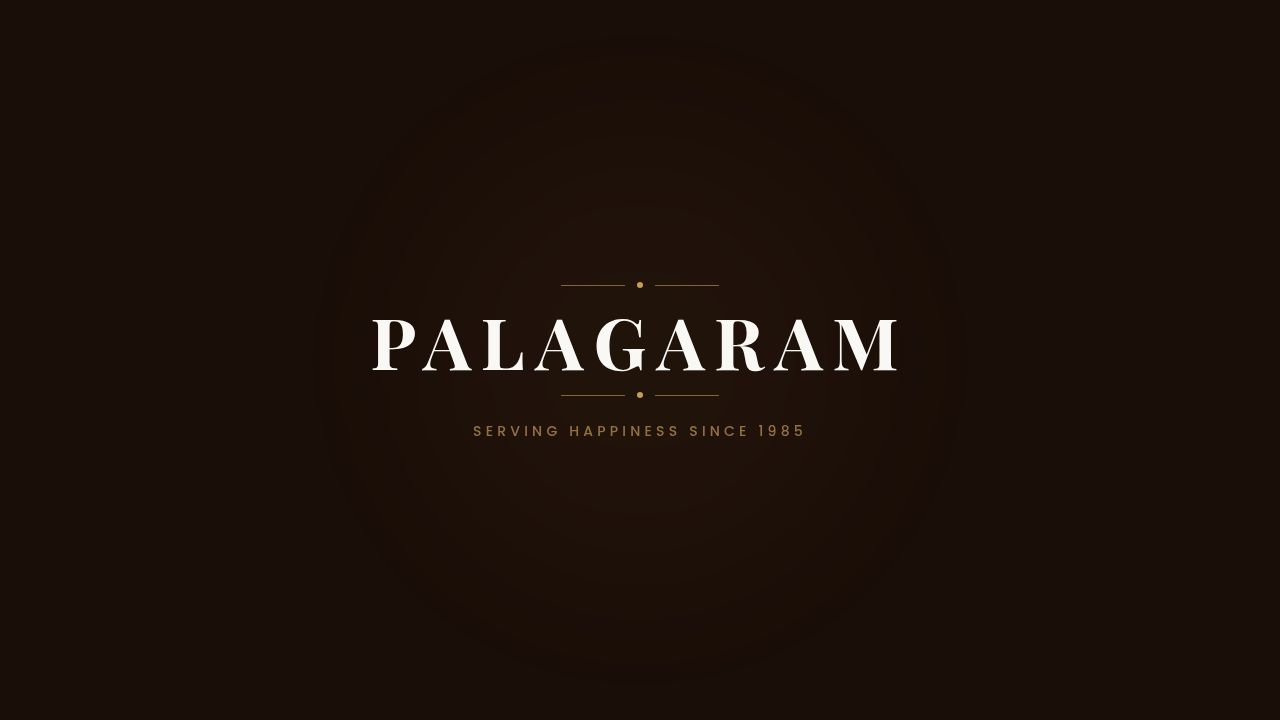
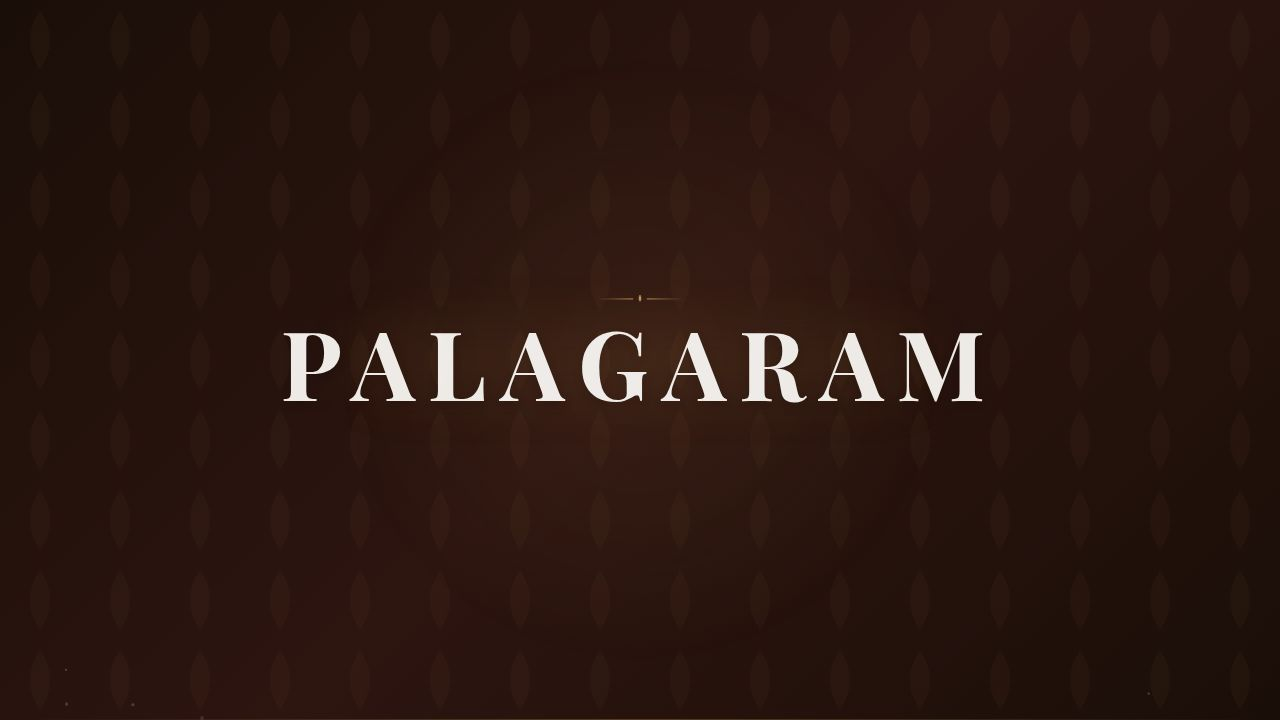
Improve website header by restructuring for better layout and spacing
Restructure Navbar into a two-row layout with improved spacing and adjust Hero section padding and content to eliminate overlap.

Replit-Commit-Author: Agent
Replit-Commit-Session-Id: d24c9f0f-30ed-4082-9ab8-82692b564b85
Replit-Commit-Checkpoint-Type: full_checkpoint
Replit-Commit-Event-Id: 40741aab-c6a1-4839-b461-d28203ab30d8
Replit-Commit-Screenshot-Url: https://storage.googleapis.com/screenshot-production-us-central1/e55d49dc-456d-4e8e-a6f0-0495e8e4a922/d24c9f0f-30ed-4082-9ab8-82692b564b85/tEyIoYd
Replit-Helium-Checkpoint-Created: true

diff --git a/artifacts/palagaram/src/components/sections/Navbar.tsx b/artifacts/palagaram/src/components/sections/Navbar.tsx
@@ -39,121 +39,202 @@ export function Navbar() {
     <motion.header
       className={`fixed top-0 left-0 right-0 z-50 transition-all duration-400 ${
         !isTransparent
-          ? "bg-[#FAF8F5]/96 backdrop-blur-xl shadow-sm py-2"
-          : "bg-gradient-to-b from-black/55 via-black/25 to-transparent py-4"
+          ? "bg-[#FAF8F5]/96 backdrop-blur-xl shadow-sm"
+          : "bg-gradient-to-b from-black/60 via-black/30 to-transparent"
       }`}
       initial={{ y: -80, opacity: 0 }}
       animate={{ y: 0, opacity: 1 }}
       transition={{ duration: 0.6, ease: [0.16, 1, 0.3, 1] }}
     >
-      <div className="container mx-auto px-6 md:px-10 flex items-center justify-between">
-        {/* Logo */}
-        <Link href="/">
-          <div className="flex items-center cursor-pointer group">
-            <img
-              src={logoImg}
-              alt="Palagaram Restaurant"
-              className={`h-12 w-auto object-contain transition-all duration-300 ${
-                isTransparent ? "brightness-[1.15]" : ""
-              }`}
-            />
-          </div>
-        </Link>
+      {/* ── Row 1: Logo | Nav Links | CTAs ── */}
+      <div className="container mx-auto px-6 md:px-10">
+        <div className="flex items-center justify-between py-3 gap-8 md:gap-10">
 
-        {/* Desktop Nav */}
-        <nav className="hidden md:flex items-center gap-7">
-          {navLinks.map((link) => {
-            const active = link.href === location;
-            return (
-              <a
-                key={link.label}
-                href={link.href}
-                className={`text-sm font-medium transition-colors relative group ${
-                  !isTransparent
-                    ? `${active ? "text-[#C89B5A]" : "text-[#4B352A] hover:text-[#C89B5A]"}`
-                    : "text-white/90 hover:text-white"
+          {/* Logo — fixed left, generous right margin */}
+          <Link href="/">
+            <div className="flex-shrink-0 cursor-pointer">
+              <img
+                src={logoImg}
+                alt="Palagaram Restaurant"
+                className={`h-12 w-auto object-contain transition-all duration-300 ${
+                  isTransparent ? "brightness-[1.15]" : ""
                 }`}
-              >
-                {link.label === "Gallery" && <Images className="w-3.5 h-3.5 inline-block mr-1 -mt-0.5" />}
-                {link.label}
-                <span className={`absolute -bottom-0.5 left-0 h-px bg-[#C89B5A] transition-all duration-200 ${active ? "w-full" : "w-0 group-hover:w-full"}`} />
-              </a>
-            );
-          })}
-        </nav>
-
-        {/* CTA buttons */}
-        <div className={`hidden md:flex items-center gap-3 pl-5 ${!isTransparent ? "border-l border-[#EADBC8]" : "border-l border-white/20"}`}>
-          <Link href="/reservation">
-            <Button
-              variant="outline"
-              size="sm"
-              className={`rounded-full font-medium text-sm transition-all gap-1.5 ${
-                !isTransparent
-                  ? "border-[#C89B5A] text-[#C89B5A] hover:bg-[#C89B5A] hover:text-white"
-                  : "border-white/60 text-white hover:bg-white/15 hover:border-white bg-transparent"
-              }`}
-            >
-              <CalendarCheck className="w-3.5 h-3.5" /> Reserve Table
-            </Button>
+              />
+            </div>
           </Link>
 
-          <Button
-            size="sm"
-            onClick={openCart}
-            className="bg-[#C89B5A] text-white hover:bg-[#B88A4A] rounded-full font-medium text-sm shadow-md gap-1.5 relative"
+          {/* Desktop Nav — centered with 32px+ gap from logo */}
+          <nav className="hidden md:flex items-center gap-6 lg:gap-7 flex-1 justify-center">
+            {navLinks.map((link) => {
+              const active = link.href === location;
+              return (
+                <a
+                  key={link.label}
+                  href={link.href}
+                  className={`text-sm font-medium transition-colors relative group whitespace-nowrap ${
+                    !isTransparent
+                      ? `${active ? "text-[#C89B5A]" : "text-[#4B352A] hover:text-[#C89B5A]"}`
+                      : "text-white/90 hover:text-white"
+                  }`}
+                >
+                  {link.label === "Gallery" && (
+                    <Images className="w-3.5 h-3.5 inline-block mr-1 -mt-0.5" />
+                  )}
+                  {link.label}
+                  <span
+                    className={`absolute -bottom-0.5 left-0 h-px bg-[#C89B5A] transition-all duration-200 ${
+                      active ? "w-full" : "w-0 group-hover:w-full"
+                    }`}
+                  />
+                </a>
+              );
+            })}
+          </nav>
+
+          {/* Desktop CTAs — fixed right */}
+          <div
+            className={`hidden md:flex items-center gap-3 flex-shrink-0 pl-4 ${
+              !isTransparent ? "border-l border-[#EADBC8]" : "border-l border-white/20"
+            }`}
           >
-            <ShoppingBag className="w-3.5 h-3.5" />
-            Order Online
-            {itemCount > 0 && (
-              <motion.span
-                initial={{ scale: 0 }}
-                animate={{ scale: 1 }}
-                className="absolute -top-1.5 -right-1.5 w-4.5 h-4.5 min-w-[18px] bg-red-500 text-white text-[10px] font-bold rounded-full flex items-center justify-center px-0.5"
+            <Link href="/reservation">
+              <Button
+                variant="outline"
+                size="sm"
+                className={`rounded-full font-medium text-sm transition-all gap-1.5 whitespace-nowrap ${
+                  !isTransparent
+                    ? "border-[#C89B5A] text-[#C89B5A] hover:bg-[#C89B5A] hover:text-white"
+                    : "border-white/60 text-white hover:bg-white/15 hover:border-white bg-transparent"
+                }`}
               >
-                {itemCount}
-              </motion.span>
-            )}
-          </Button>
+                <CalendarCheck className="w-3.5 h-3.5" /> Reserve
+              </Button>
+            </Link>
 
-          {/* Profile Icon */}
-          <div className="relative">
-            <motion.button
-              whileTap={{ scale: 0.9 }}
-              onClick={() => setAccountOpen((v) => !v)}
-              className={`relative w-9 h-9 rounded-full flex items-center justify-center transition-all border-2 ${
-                accountOpen
-                  ? "border-[#C89B5A] bg-[#C89B5A] text-white"
-                  : !isTransparent
-                    ? "border-[#EADBC8] text-[#4B352A] hover:border-[#C89B5A] hover:text-[#C89B5A]"
-                    : "border-white/30 text-white/80 hover:text-white hover:border-white"
-              }`}
+            <Button
+              size="sm"
+              onClick={openCart}
+              className="bg-[#C89B5A] text-white hover:bg-[#B88A4A] rounded-full font-medium text-sm shadow-md gap-1.5 relative whitespace-nowrap"
             >
-              <UserCircle2 className="w-5 h-5" />
-            </motion.button>
-            <AccountDropdown open={accountOpen} onClose={() => setAccountOpen(false)} />
-          </div>
-        </div>
+              <ShoppingBag className="w-3.5 h-3.5" />
+              Order Online
+              {itemCount > 0 && (
+                <motion.span
+                  initial={{ scale: 0 }}
+                  animate={{ scale: 1 }}
+                  className="absolute -top-1.5 -right-1.5 min-w-[18px] h-[18px] bg-red-500 text-white text-[10px] font-bold rounded-full flex items-center justify-center px-1"
+                >
+                  {itemCount}
+                </motion.span>
+              )}
+            </Button>
 
-        {/* Mobile: cart + hamburger */}
-        <div className="md:hidden flex items-center gap-2">
-          {itemCount > 0 && (
-            <button onClick={openCart} className="relative w-9 h-9 flex items-center justify-center">
-              <ShoppingBag className={`w-5 h-5 ${!isTransparent ? "text-[#4B352A]" : "text-white"}`} />
-              <span className="absolute -top-1 -right-1 w-4 h-4 bg-red-500 text-white text-[9px] font-bold rounded-full flex items-center justify-center">{itemCount}</span>
+            {/* Profile icon */}
+            <div className="relative">
+              <motion.button
+                whileTap={{ scale: 0.9 }}
+                onClick={() => setAccountOpen((v) => !v)}
+                className={`w-9 h-9 rounded-full flex items-center justify-center transition-all border-2 ${
+                  accountOpen
+                    ? "border-[#C89B5A] bg-[#C89B5A] text-white"
+                    : !isTransparent
+                      ? "border-[#EADBC8] text-[#4B352A] hover:border-[#C89B5A] hover:text-[#C89B5A]"
+                      : "border-white/30 text-white/80 hover:text-white hover:border-white"
+                }`}
+              >
+                <UserCircle2 className="w-5 h-5" />
+              </motion.button>
+              <AccountDropdown open={accountOpen} onClose={() => setAccountOpen(false)} />
+            </div>
+          </div>
+
+          {/* Mobile: cart icon + hamburger */}
+          <div className="md:hidden flex items-center gap-2 flex-shrink-0">
+            {itemCount > 0 && (
+              <button
+                onClick={openCart}
+                className="relative w-9 h-9 flex items-center justify-center"
+              >
+                <ShoppingBag
+                  className={`w-5 h-5 ${!isTransparent ? "text-[#4B352A]" : "text-white"}`}
+                />
+                <span className="absolute -top-1 -right-1 w-4 h-4 bg-red-500 text-white text-[9px] font-bold rounded-full flex items-center justify-center">
+                  {itemCount}
+                </span>
+              </button>
+            )}
+            <button
+              className={`p-2 rounded-lg transition-colors ${
+                !isTransparent ? "text-[#4B352A]" : "text-white"
+              }`}
+              onClick={() => setMobileMenuOpen(!mobileMenuOpen)}
+              aria-label="Toggle menu"
+            >
+              {mobileMenuOpen ? <X size={22} /> : <Menu size={22} />}
             </button>
-          )}
-          <button
-            className={`p-2 rounded-lg transition-colors ${!isTransparent ? "text-[#4B352A]" : "text-white"}`}
-            onClick={() => setMobileMenuOpen(!mobileMenuOpen)}
-            aria-label="Toggle menu"
-          >
-            {mobileMenuOpen ? <X size={22} /> : <Menu size={22} />}
-          </button>
+          </div>
         </div>
       </div>
 
-      {/* Mobile Nav */}
+      {/* ── Row 2: Centered Tagline Strip ── */}
+      <div
+        className={`hidden md:flex items-center justify-center py-2 transition-all duration-400 ${
+          !isTransparent
+            ? "border-t border-[#EADBC8]/70"
+            : "border-t border-white/10"
+        }`}
+      >
+        <div className="flex items-center gap-4">
+          {/* Left decorative line */}
+          <div
+            className={`flex items-center gap-1.5 ${
+              !isTransparent ? "opacity-60" : "opacity-50"
+            }`}
+          >
+            <span
+              className={`block h-px w-8 ${
+                !isTransparent ? "bg-[#C89B5A]" : "bg-[#C89B5A]"
+              }`}
+            />
+            <span className="text-[#C89B5A] text-[8px]">✦</span>
+            <span
+              className={`block h-px w-4 ${
+                !isTransparent ? "bg-[#C89B5A]" : "bg-[#C89B5A]"
+              }`}
+            />
+          </div>
+
+          {/* Tagline text */}
+          <span
+            className={`text-[10px] font-semibold uppercase tracking-[0.35em] ${
+              !isTransparent ? "text-[#C89B5A]" : "text-[#C89B5A]"
+            }`}
+          >
+            Chidambaram's Finest Vegetarian
+          </span>
+
+          {/* Right decorative line */}
+          <div
+            className={`flex items-center gap-1.5 ${
+              !isTransparent ? "opacity-60" : "opacity-50"
+            }`}
+          >
+            <span
+              className={`block h-px w-4 ${
+                !isTransparent ? "bg-[#C89B5A]" : "bg-[#C89B5A]"
+              }`}
+            />
+            <span className="text-[#C89B5A] text-[8px]">✦</span>
+            <span
+              className={`block h-px w-8 ${
+                !isTransparent ? "bg-[#C89B5A]" : "bg-[#C89B5A]"
+              }`}
+            />
+          </div>
+        </div>
+      </div>
+
+      {/* ── Mobile Nav Drawer ── */}
       <AnimatePresence>
         {mobileMenuOpen && (
           <motion.div
@@ -163,6 +244,13 @@ export function Navbar() {
             transition={{ duration: 0.25 }}
             className="md:hidden bg-[#FAF8F5]/98 backdrop-blur-xl border-t border-[#EADBC8] overflow-hidden"
           >
+            {/* Mobile tagline */}
+            <div className="flex items-center justify-center py-2.5 border-b border-[#EADBC8]/60 bg-[#FAF8F5]">
+              <span className="text-[#C89B5A] text-[9px] font-semibold uppercase tracking-[0.3em]">
+                ✦ Chidambaram's Finest Vegetarian ✦
+              </span>
+            </div>
+
             <div className="px-6 py-5 flex flex-col gap-1">
               {navLinks.map((link) => (
                 <a
@@ -171,22 +259,33 @@ export function Navbar() {
                   className="text-base font-medium py-3 px-3 text-[#4B352A] hover:text-[#C89B5A] hover:bg-[#F6F0E8] rounded-lg transition-colors flex items-center gap-2"
                   onClick={() => setMobileMenuOpen(false)}
                 >
-                  {link.label === "Gallery" && <Images className="w-4 h-4 text-[#C89B5A]" />}
+                  {link.label === "Gallery" && (
+                    <Images className="w-4 h-4 text-[#C89B5A]" />
+                  )}
                   {link.label}
                 </a>
               ))}
+
               <div className="flex flex-col gap-2 mt-4 pt-4 border-t border-[#EADBC8]">
                 <Link href="/reservation" onClick={() => setMobileMenuOpen(false)}>
-                  <Button variant="outline" className="w-full border-[#C89B5A] text-[#C89B5A] hover:bg-[#C89B5A] hover:text-white rounded-full gap-1.5">
+                  <Button
+                    variant="outline"
+                    className="w-full border-[#C89B5A] text-[#C89B5A] hover:bg-[#C89B5A] hover:text-white rounded-full gap-1.5"
+                  >
                     <CalendarCheck className="w-4 h-4" /> Reserve Table
                   </Button>
                 </Link>
                 <Button
                   className="w-full bg-[#C89B5A] text-white hover:bg-[#B88A4A] rounded-full gap-1.5"
-                  onClick={() => { openCart(); setMobileMenuOpen(false); }}
+                  onClick={() => {
+                    openCart();
+                    setMobileMenuOpen(false);
+                  }}
                 >
-                  <ShoppingBag className="w-4 h-4" /> Order Online {itemCount > 0 && `(${itemCount})`}
+                  <ShoppingBag className="w-4 h-4" /> Order Online{" "}
+                  {itemCount > 0 && `(${itemCount})`}
                 </Button>
+
                 <div className="border-t border-[#EADBC8] pt-3 mt-1 space-y-1">
                   {[
                     { label: "👤 My Profile", href: "/my-profile" },
@@ -196,7 +295,11 @@ export function Navbar() {
                     { label: "🔔 Notifications", href: "/notifications" },
                     { label: "📍 Saved Addresses", href: "/saved-addresses" },
                   ].map((item) => (
-                    <Link key={item.href} href={item.href} onClick={() => setMobileMenuOpen(false)}>
+                    <Link
+                      key={item.href}
+                      href={item.href}
+                      onClick={() => setMobileMenuOpen(false)}
+                    >
                       <div className="text-sm font-medium py-2.5 px-3 text-[#4B352A] hover:text-[#C89B5A] hover:bg-[#F6F0E8] rounded-lg transition-colors cursor-pointer">
                         {item.label}
                       </div>

diff --git a/artifacts/palagaram/src/components/sections/Hero.tsx b/artifacts/palagaram/src/components/sections/Hero.tsx
@@ -72,22 +72,8 @@ export function Hero() {
         ))}
       </div>
 
-      <div className="container relative z-20 mx-auto px-6 md:px-10 flex flex-col md:flex-row items-center justify-between h-full pt-24 pb-12">
+      <div className="container relative z-20 mx-auto px-6 md:px-10 flex flex-col md:flex-row items-center justify-between h-full pt-36 pb-12">
         <div className="max-w-3xl flex flex-col items-center md:items-start">
-          {/* Eyebrow */}
-          <motion.div
-            initial={{ opacity: 0, y: 12 }}
-            animate={{ opacity: 1, y: 0 }}
-            transition={{ delay: 0.1, duration: 0.7 }}
-            className="flex items-center gap-3 mb-6"
-          >
-            <span className="h-px w-8 bg-[#C89B5A]" />
-            <span className="text-[#C89B5A] uppercase tracking-[0.25em] text-xs font-semibold">
-              Chidambaram's Finest Vegetarian
-            </span>
-            <span className="h-px w-8 bg-[#C89B5A]" />
-          </motion.div>
-
           {/* Headline word-by-word */}
           <motion.div
             variants={container}